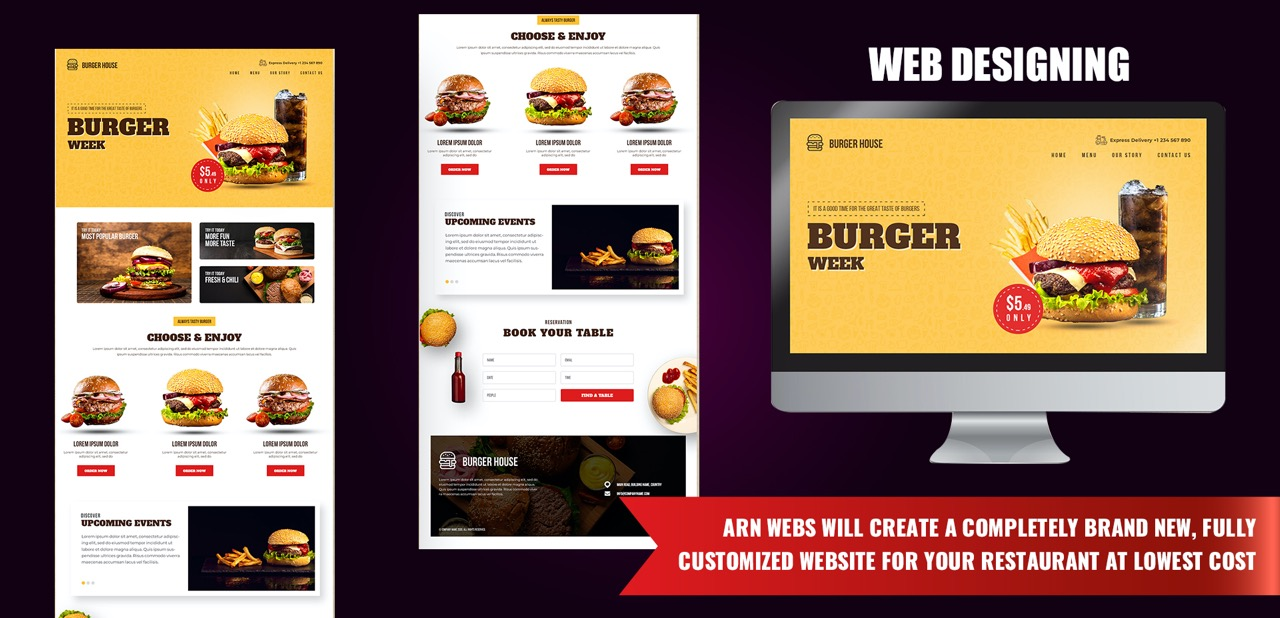
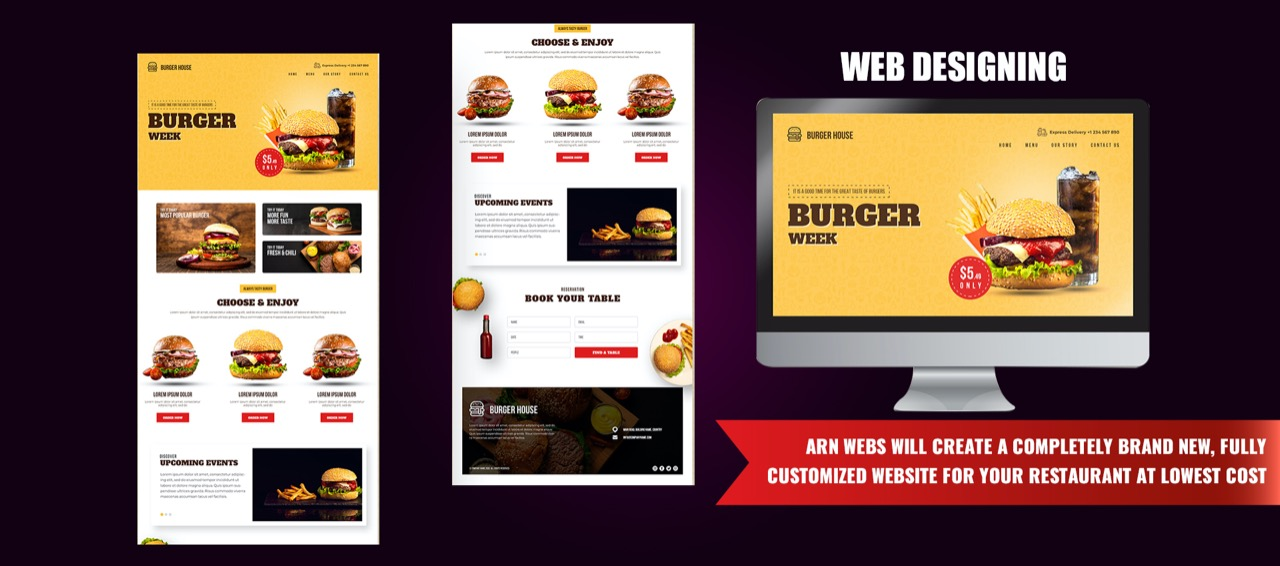
chang in mobie view our services

diff --git a/assets/css/style.css b/assets/css/style.css
@@ -524,6 +524,12 @@ section {
 .serviceimg{
   width: 50vw;
 }
+@media (max-width: 768px) {
+  .serviceimg{
+    width: 100vw;
+  }
+}
+
 .services .icon-box {
   padding: 30px;
   position: relative;
